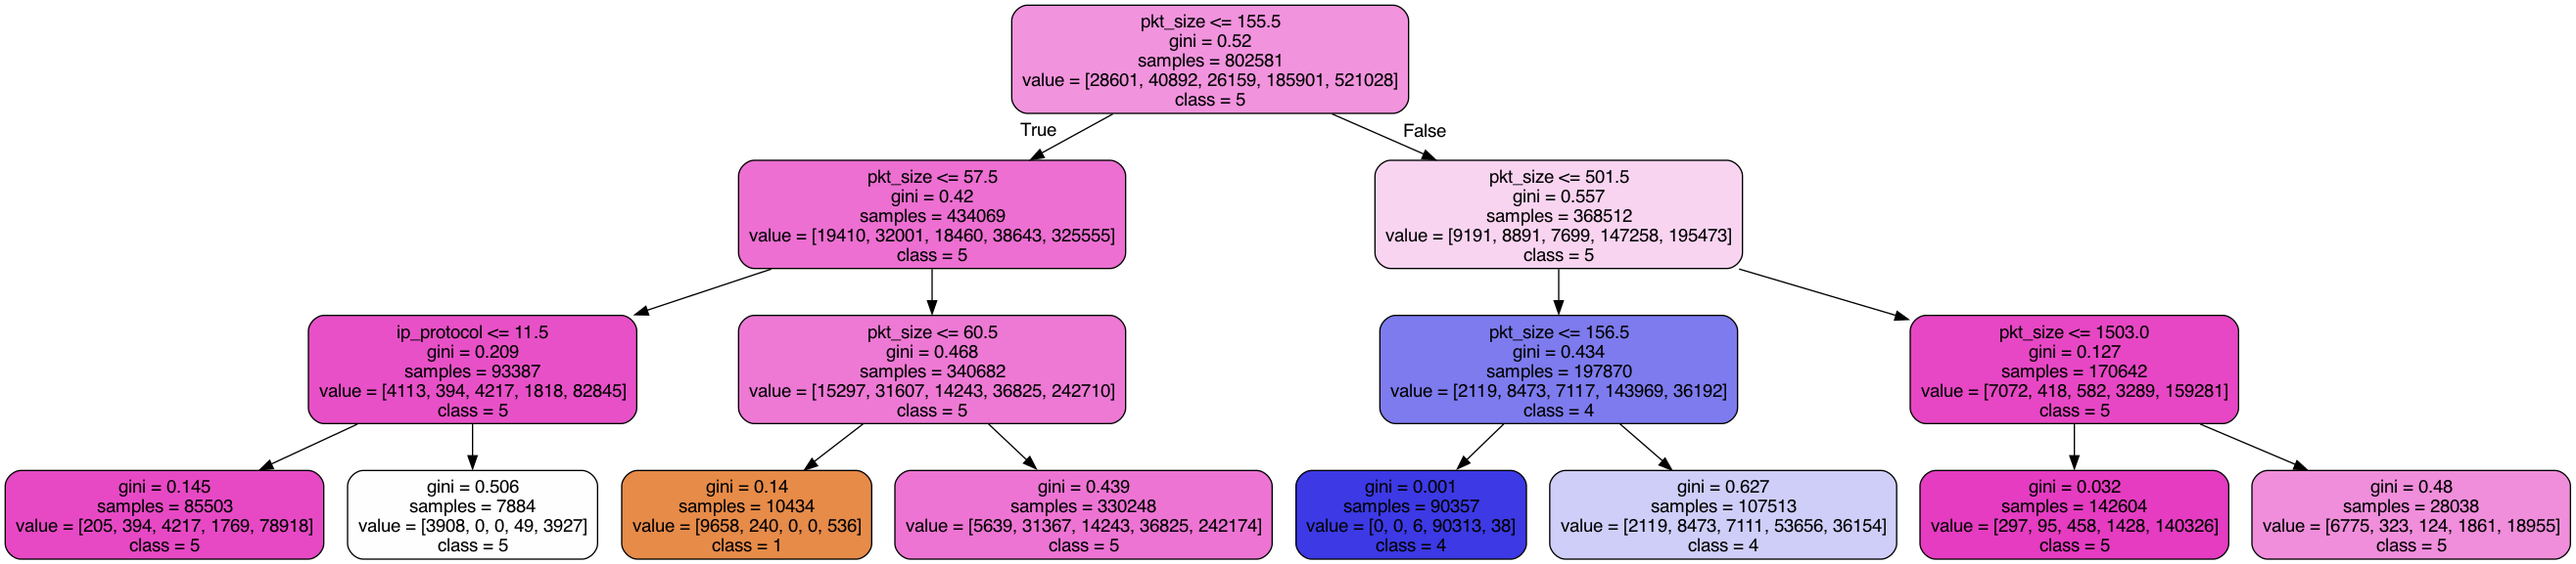
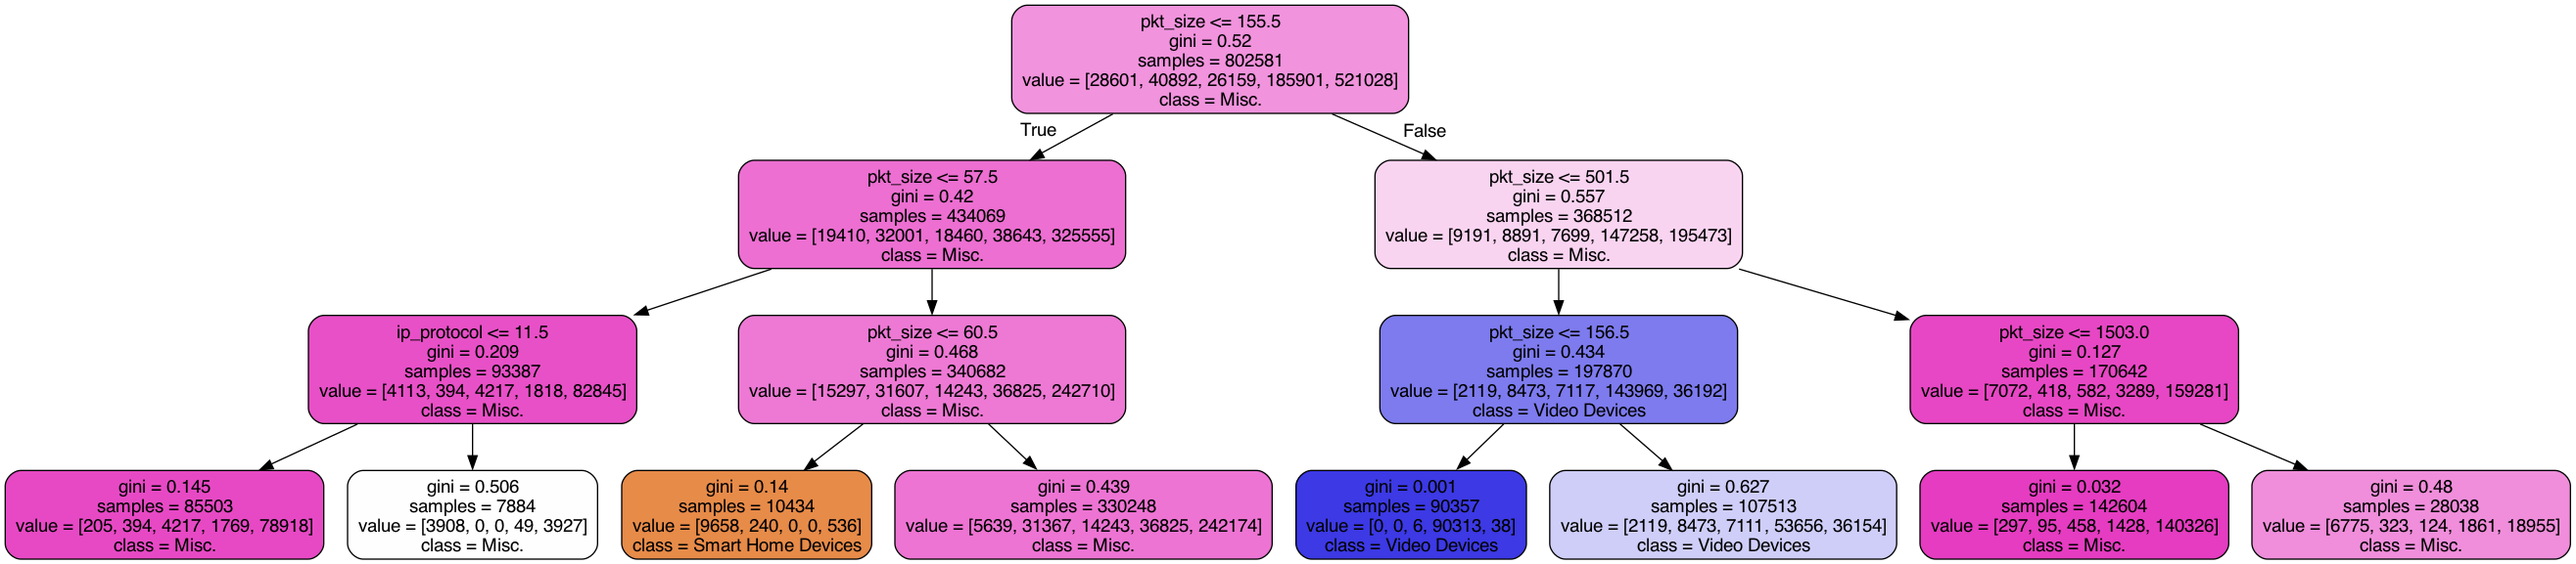
Fix class name in figure

diff --git a/DecisionTree/decisionTree.py b/DecisionTree/decisionTree.py
@@ -63,7 +63,7 @@ X = [[i[2], i[7]] for i in set_data]
 y = [i[10] for i in set_data]
 features = ['pkt_size', 'ip_protocol']
 #features = ['pkt_size','eth_src','ip_protocol']
-target = ["1", "2", "3", "4", "5"]
+target = ["Smart Home Devices", "Sensors", "Audio Devices", "Video Devices", "Misc."]
 
 X = np.array(X)
 y = np.array(y)
